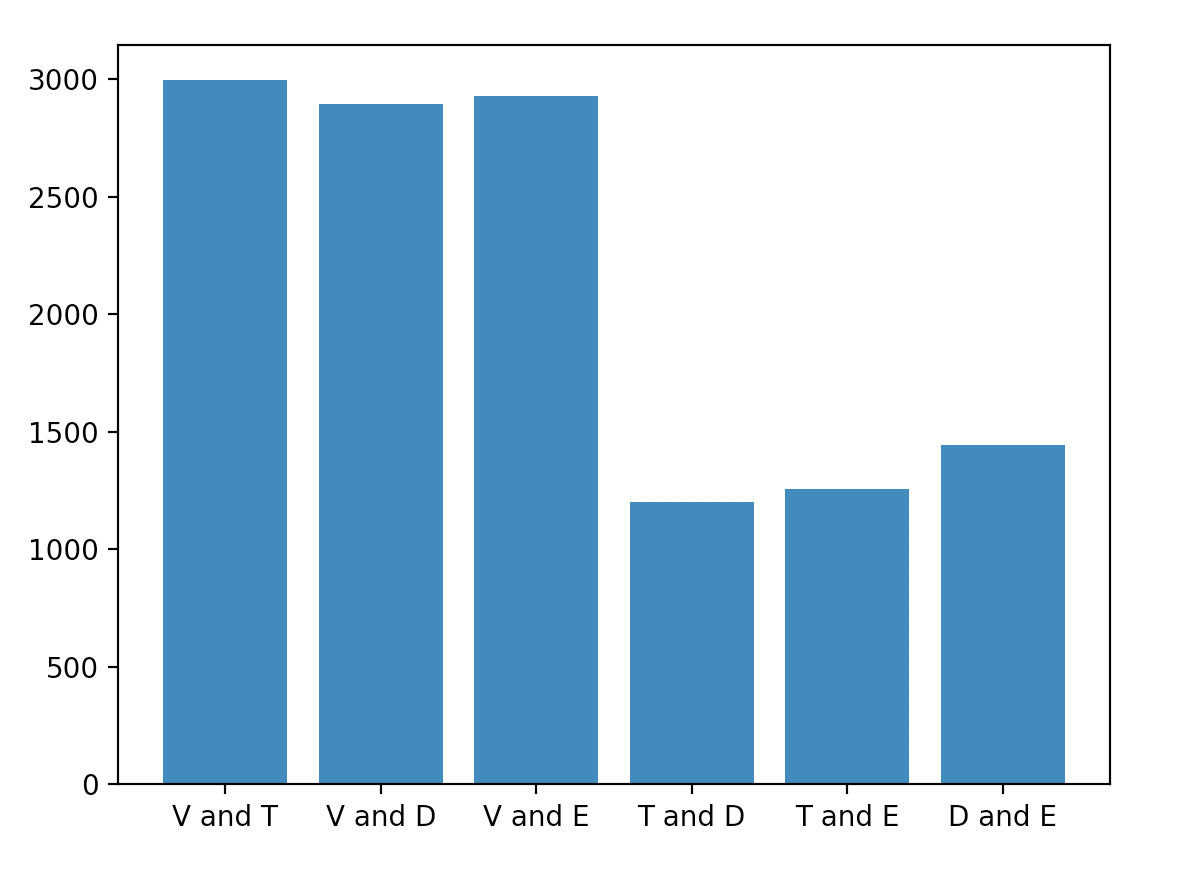
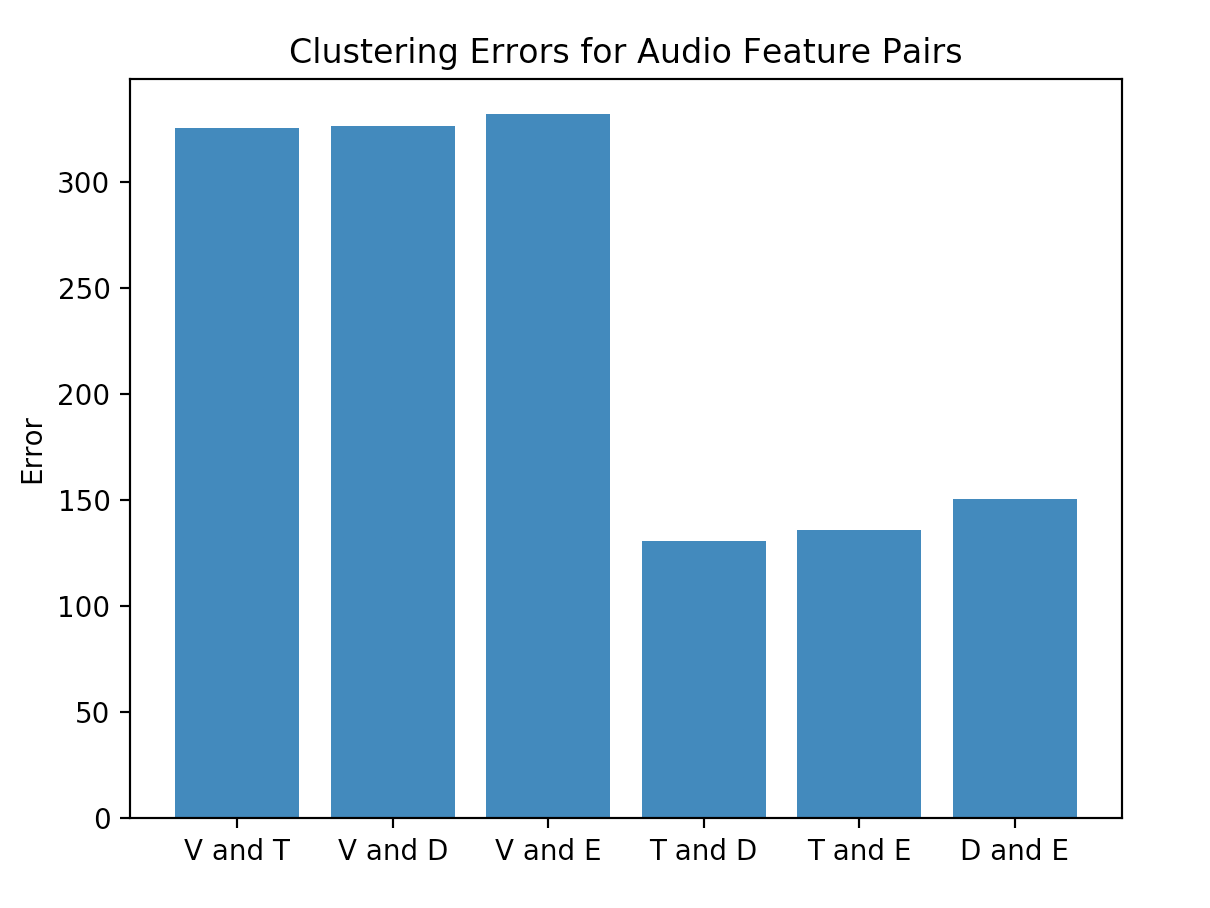
updated errors bar chart

Changed region(s): [[0.0, 0.031, 0.9343, 0.9599]]

diff --git a/audio_errors.py b/audio_errors.py
@@ -21,8 +21,7 @@ def main():
 	# The following codes loads the data set into a 2D np array called data
 	# with open('data/word_sentiment.csv') as words_file:
 
-	# file = open("./previous data/500_songs.txt", "r")
-	conn = sqlite3.connect('./FULL DATA/tracks2features_full.db')
+	conn = sqlite3.connect('./200 PLAYLISTS DATA/tracks2features.db')
 	c = conn.cursor()
 	c.execute("SELECT * FROM audio_features")
 	rows = c.fetchall()
@@ -96,33 +95,18 @@ def main():
 	data5 = np.asarray(data5) #tempo and energy
 	data6 = np.asarray(data6) #danceability and energy
 
-
-
-	"""
-	variable data is now a 2D numpy array, each row being a list of the song name, valence, tempo, danceability,
-	energy.
-	"""
-	# data_points1 = []
-	# data_points2 = []
-	# data_points3 = []
-	# data_points4 = []
-	# data_points5 = []
-	# data_points6 = []
-
-	# for i in range(len(data)):
-	# 	data_points1.append(np.float_((data[i][1:]))) #valence and tempo
-	#     data_points2.append(np.float_((data[i][1:]))) #valence and danceability
-	#     data_points3.append(np.float_((data[i][1:]))) #valence and energy
-	#     data_points4.append(np.float_((data[i][1:]))) #tempo and danceability
-	#     data_points5.append(np.float_((data[i][1:]))) #tempo and energy
-	#     data_points6.append(np.float_((data[i][1:]))) #danceability and energy
-	# data_points = np.array(data_points)
-
 	clusters = 5
 	errors = []
 
 	kms= KMeans(n_clusters=clusters)
 	
+	kms.fit_predict(data1)
+	kms.fit_predict(data2)
+	kms.fit_predict(data3)
+	kms.fit_predict(data4)
+	kms.fit_predict(data5)
+	kms.fit_predict(data6)
+
 	errors.append(-1*kms.score(data1)) #score is the error
 	errors.append(-1*kms.score(data2))
 	errors.append(-1*kms.score(data3))
@@ -133,8 +117,9 @@ def main():
 	x = np.arange(6)
 
 	fig, ax = plt.subplots()
-	# ax.yaxis.set_major_formatter(formatter)
 	plt.bar(x, errors)
+	plt.ylabel('Error')
+	plt.title('Clustering Errors for Audio Feature Pairs')
 	plt.xticks(x, ('V and T', 'V and D', 'V and E', 'T and D', 'T and E', 'D and E'))
 	plt.show()
 
